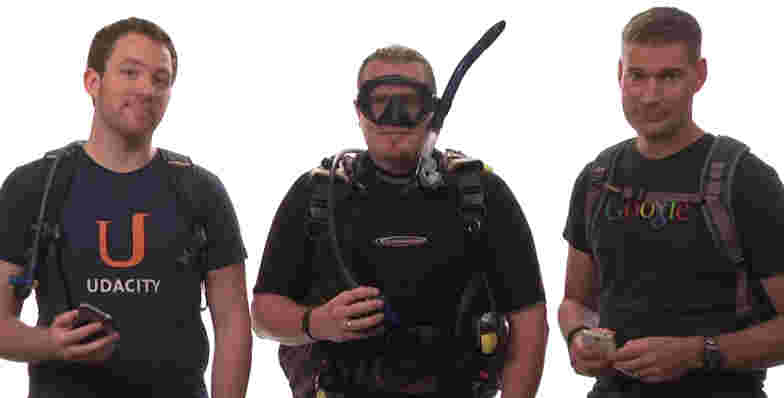
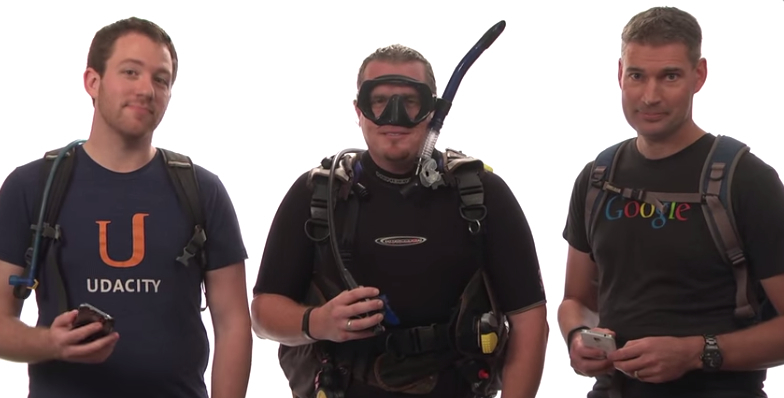
fix: reset image quality

diff --git a/views/Gruntfile.js b/views/Gruntfile.js
@@ -16,12 +16,12 @@ module.exports = function(grunt) {
           sizes: [{
             width: '100%',
             suffix: '',
-            quality: 50
+            quality: 100
           },
           {
           	width: 800,
           	suffix: '',
-          	quality: 50
+          	quality: 100
           }
           ]
         },

diff --git a/Gruntfile.js b/Gruntfile.js
@@ -16,7 +16,7 @@ module.exports = function(grunt) {
           sizes: [{
             width: '100%',
             suffix: '',
-            quality: 10
+            quality: 100
           }]
         },
         files: [{
